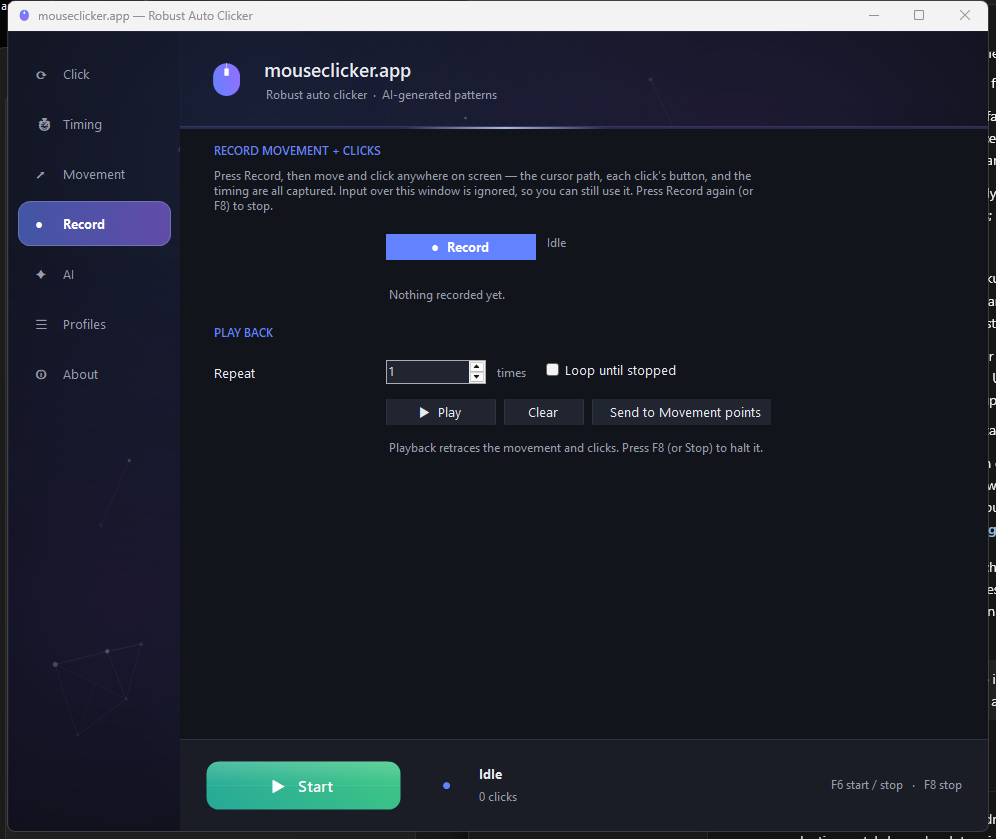
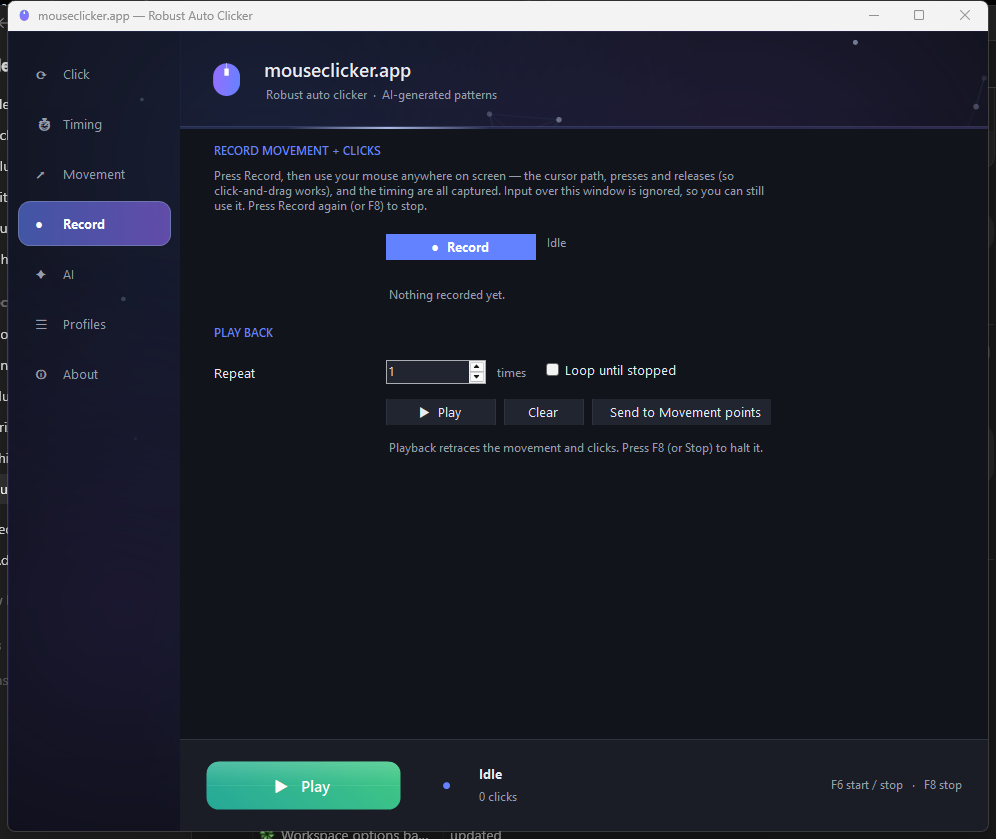
Record click-and-drag; context-aware Start button (v3.5)
Record button down/up (drag support):
- The recorder now captures button PRESS and RELEASE as separate steps
  (StepKind Down/Up) plus the movement between them, so click-and-drag is
  recorded faithfully — previously only a full "click" was stored, which
  couldn't represent a drag. Playback issues MouseDown/MouseUp at the
  recorded points, and always releases any still-held button at the end (or
  on Stop) so a recording that ends mid-drag can't leave a button stuck.
- "Send to Movement points" maps the press (Down) locations. UI counts
  presses as clicks. Now also captures WM_*BUTTONUP.

Context-aware footer Start button:
- The big Start button (and F6) now performs the current tab's action: on
  the Record tab it plays/stops the recording (button reads "Play"),
  everywhere else it runs/stops the configured clicker ("Start"). The
  button + tray tooltip reflect whichever is active; SwitchPage refreshes
  it. The tray menu's "Start/Stop clicking" stays engine-explicit.
- MacroPlayer.IsPlaying is now set synchronously (no thread-start race) so
  the button state is always consistent.

Verified: --audit 60/60 (incl. new down/up capture + drag), --rectest now
replays a down/move/up drag and releases cleanly, --selftest, live smoke
launch, and footer reads "Play" on Record / "Start" elsewhere via --shot.
Docs/site/screenshot updated.

diff --git a/docs/index.html b/docs/index.html
@@ -283,7 +283,7 @@
             </figure>
             <figure class="slide">
               <img src="img/screenshot-record.png" alt="mouseclicker.app movement and click recorder" />
-              <figcaption class="slide-cap"><span class="tag2">Record</span><b>Capture movement &amp; clicks, then replay</b></figcaption>
+              <figcaption class="slide-cap"><span class="tag2">Record</span><b>Capture movement, clicks &amp; drags</b></figcaption>
             </figure>
             <figure class="slide">
               <img src="img/screenshot-ai.png" alt="mouseclicker.app AI pattern generator" />
@@ -327,7 +327,7 @@
       <div class="card">
         <div class="ic">●</div>
         <h3>Record &amp; replay</h3>
-        <p>Hit Record and use your mouse anywhere — mouseclicker.app captures the cursor movement <b>and</b> every click (position, button, and timing), then retraces the whole sequence a set number of times or on a loop. Send the recorded clicks straight to the point-sequence engine.</p>
+        <p>Hit Record and use your mouse anywhere — mouseclicker.app captures the cursor movement, presses, and releases (so <b>click-and-drag</b> works), with full timing, then retraces the whole sequence a set number of times or on a loop.</p>
       </div>
       <div class="card">
         <div class="ic">⌨</div>

diff --git a/src/Macro.cs b/src/Macro.cs
@@ -9,12 +9,15 @@ namespace ClickForge
     public enum StepKind
     {
         Move = 0,
-        Click = 1
+        Down = 1,   // mouse button pressed
+        Up = 2      // mouse button released
     }
 
-    // One captured event: a cursor move, or a click. DelayMs is how long to wait
-    // before performing this step (reproducing the recorded timing). Button is
-    // only meaningful when Kind == Click.
+    // One captured event: a cursor move, a button press, or a button release.
+    // DelayMs is how long to wait before performing this step (reproducing the
+    // recorded timing). Down + moves + Up together reproduce a click-and-drag;
+    // a Down immediately followed by an Up is a plain click. Button is only
+    // meaningful for Down/Up.
     public class RecordedStep
     {
         public StepKind Kind { get; set; }
@@ -92,7 +95,10 @@ namespace ClickForge
                 if (msg == NativeMethods.WM_MOUSEMOVE
                     || msg == NativeMethods.WM_LBUTTONDOWN
                     || msg == NativeMethods.WM_RBUTTONDOWN
-                    || msg == NativeMethods.WM_MBUTTONDOWN)
+                    || msg == NativeMethods.WM_MBUTTONDOWN
+                    || msg == NativeMethods.WM_LBUTTONUP
+                    || msg == NativeMethods.WM_RBUTTONUP
+                    || msg == NativeMethods.WM_MBUTTONUP)
                 {
                     var data = (NativeMethods.MSLLHOOKSTRUCT)Marshal.PtrToStructure(
                         lParam, typeof(NativeMethods.MSLLHOOKSTRUCT));
@@ -125,9 +131,12 @@ namespace ClickForge
             MouseButton btn = MouseButton.Left;
             switch (msg)
             {
-                case NativeMethods.WM_LBUTTONDOWN: kind = StepKind.Click; btn = MouseButton.Left; break;
-                case NativeMethods.WM_RBUTTONDOWN: kind = StepKind.Click; btn = MouseButton.Right; break;
-                case NativeMethods.WM_MBUTTONDOWN: kind = StepKind.Click; btn = MouseButton.Middle; break;
+                case NativeMethods.WM_LBUTTONDOWN: kind = StepKind.Down; btn = MouseButton.Left; break;
+                case NativeMethods.WM_RBUTTONDOWN: kind = StepKind.Down; btn = MouseButton.Right; break;
+                case NativeMethods.WM_MBUTTONDOWN: kind = StepKind.Down; btn = MouseButton.Middle; break;
+                case NativeMethods.WM_LBUTTONUP: kind = StepKind.Up; btn = MouseButton.Left; break;
+                case NativeMethods.WM_RBUTTONUP: kind = StepKind.Up; btn = MouseButton.Right; break;
+                case NativeMethods.WM_MBUTTONUP: kind = StepKind.Up; btn = MouseButton.Middle; break;
                 case NativeMethods.WM_MOUSEMOVE: kind = StepKind.Move; break;
                 default: return null;
             }
@@ -156,7 +165,7 @@ namespace ClickForge
             _lastY = py;
             _haveLast = true;
             if (kind == StepKind.Move) { _moveCount++; _lastMoveTick = nowTick; }
-            else _clickCount++;
+            else if (kind == StepKind.Down) _clickCount++; // Up doesn't add a "click"
             return step;
         }
     }
@@ -167,8 +176,11 @@ namespace ClickForge
     {
         private Thread _thread;
         private volatile bool _stop;
+        private volatile bool _active;
 
-        public bool IsPlaying { get { return _thread != null && _thread.IsAlive; } }
+        // Set synchronously in Play() and cleared before Finished fires, so
+        // callers see a consistent state with no thread-start race.
+        public bool IsPlaying { get { return _active; } }
 
         // Both fire on the worker thread — marshal to the UI thread in handlers.
         public event Action<int> Progress;    // total clicks performed so far
@@ -176,12 +188,16 @@ namespace ClickForge
 
         public void Play(List<RecordedStep> steps, int repeatCount /* 0 = loop forever */)
         {
-            if (IsPlaying || steps == null || steps.Count == 0) return;
+            if (_active || steps == null || steps.Count == 0) return;
             RecordedStep[] plan = steps.ToArray();
             _stop = false;
+            _active = true;
             _thread = new Thread(delegate()
             {
                 int clicks = 0;
+                // Track which buttons we've pressed so a recording that ends
+                // mid-drag (or an early Stop) never leaves a button stuck down.
+                bool[] pressed = new bool[3];
                 try
                 {
                     int loops = 0;
@@ -193,18 +209,26 @@ namespace ClickForge
                             SleepInterruptible(s.DelayMs);
                             if (_stop) break;
                             InputSimulator.MoveTo(s.X, s.Y);
-                            if (s.Kind == StepKind.Click)
+                            if (s.Kind == StepKind.Down)
                             {
-                                InputSimulator.Click(s.Button, 15);
+                                InputSimulator.MouseDown(s.Button);
+                                MarkPressed(pressed, s.Button, true);
                                 clicks++;
                                 Action<int> p = Progress;
                                 if (p != null) p(clicks);
+                            }
+                            else if (s.Kind == StepKind.Up)
+                            {
+                                InputSimulator.MouseUp(s.Button);
+                                MarkPressed(pressed, s.Button, false);
                             }
                         }
                         loops++;
                     }
                 }
                 catch { }
+                ReleaseAll(pressed);
+                _active = false; // clear before Finished so handlers see a settled state
                 Action<string> f = Finished;
                 if (f != null) f(_stop ? "Playback stopped." : "Playback complete.");
             });
@@ -213,6 +237,24 @@ namespace ClickForge
         }
 
         public void Stop() { _stop = true; }
+
+        private static void MarkPressed(bool[] pressed, MouseButton b, bool down)
+        {
+            int i = (int)b;
+            if (i >= 0 && i < pressed.Length) pressed[i] = down;
+        }
+
+        private static void ReleaseAll(bool[] pressed)
+        {
+            for (int i = 0; i < pressed.Length; i++)
+            {
+                if (pressed[i])
+                {
+                    try { InputSimulator.MouseUp((MouseButton)i); }
+                    catch { }
+                }
+            }
+        }
 
         private void SleepInterruptible(int ms)
         {

diff --git a/src/MainForm.cs b/src/MainForm.cs
@@ -10,7 +10,7 @@ namespace ClickForge
     public class MainForm : Form
     {
         private const string AppName = "mouseclicker.app";
-        private const string AppVersion = "3.4";
+        private const string AppVersion = "3.5";
 
         private Profile _profile;
         private readonly ClickEngine _engine = new ClickEngine();
@@ -477,6 +477,8 @@ namespace ClickForge
                 _navActive = idx;
                 _navPillTarget = _navRects[idx].Y;
             }
+            // The footer Start button's action depends on the active tab.
+            if (_startButton != null) UpdateStartButton();
         }
 
         // ---- Pages -------------------------------------------------------
@@ -665,9 +667,9 @@ namespace ClickForge
             FlowLayoutPanel s = Ui.Stack();
             s.Controls.Add(Theme.SectionHeader("Record movement + clicks"));
             s.Controls.Add(Ui.Spacer(4));
-            Label rBlurb = Theme.Label("Press Record, then move and click anywhere on screen — the cursor path, "
-                + "each click's button, and the timing are all captured. Input over this window is ignored, "
-                + "so you can still use it. Press Record again (or F8) to stop.", true);
+            Label rBlurb = Theme.Label("Press Record, then use your mouse anywhere on screen — the cursor path, "
+                + "presses and releases (so click-and-drag works), and the timing are all captured. Input over "
+                + "this window is ignored, so you can still use it. Press Record again (or F8) to stop.", true);
             rBlurb.MaximumSize = new Size(Ui.ContentWidth, 0);
             s.Controls.Add(rBlurb);
             s.Controls.Add(Ui.Spacer(8));
@@ -728,7 +730,13 @@ namespace ClickForge
             };
             _player.Finished += delegate(string reason)
             {
-                UiInvoke(delegate { _playBtn.Text = "▶  Play"; _recordStatus.ForeColor = Theme.Muted; _recordStatus.Text = reason; });
+                UiInvoke(delegate
+                {
+                    _playBtn.Text = "▶  Play";
+                    _recordStatus.ForeColor = Theme.Muted;
+                    _recordStatus.Text = reason;
+                    UpdateStartButton(); // footer back to Play/Start for the tab
+                });
             };
             return s;
         }
@@ -788,10 +796,11 @@ namespace ClickForge
             if (_recorder.IsRecording) StopRecording();
             if (_engine.IsRunning) _engine.Stop();
             int repeat = _recordLoop.Checked ? 0 : (int)_recordRepeat.Value;
-            _playBtn.Text = "■  Stop";
             _recordStatus.ForeColor = Theme.Accent;
             _recordStatus.Text = "Playing…";
             _player.Play(_recorder.Steps, repeat);
+            _playBtn.Text = "■  Stop";
+            UpdateStartButton(); // footer reflects playback on the Record tab
         }
 
         private void ClearRecording()
@@ -817,7 +826,7 @@ namespace ClickForge
             SyncToProfile();
             _profile.Points.Clear();
             foreach (RecordedStep st in _recorder.Steps)
-                if (st.Kind == StepKind.Click)
+                if (st.Kind == StepKind.Down)
                     _profile.Points.Add(new ClickPoint(st.X, st.Y));
             _profile.PositionMode = PositionMode.PointSequence;
             LoadToControls();
@@ -1477,7 +1486,24 @@ namespace ClickForge
 
         // ---- Engine control ----------------------------------------------
 
+        // True when the Record tab is the active page.
+        private bool OnRecordTab()
+        {
+            return _navActive >= 0 && _navActive < NavNames.Length && NavNames[_navActive] == "Record";
+        }
+
+        // The footer Start button (and the F6 hotkey) act on whatever the
+        // current tab is set up to do: on the Record tab that's playing back the
+        // recording, everywhere else it's the configured clicker.
         private void ToggleRun()
+        {
+            if (OnRecordTab())
+                TogglePlayback();
+            else
+                ToggleEngine();
+        }
+
+        private void ToggleEngine()
         {
             if (_engine.IsRunning)
                 _engine.Stop();
@@ -1538,9 +1564,12 @@ namespace ClickForge
 
         private void UpdateStartButton()
         {
-            bool running = _engine.IsRunning;
-            _startButton.Text = running ? "■   Stop" : "▶   Start";
-            if (running)
+            // The footer button reflects the action of the current tab: play the
+            // recording on the Record tab, otherwise run the clicker.
+            bool onRec = OnRecordTab();
+            bool active = onRec ? _player.IsPlaying : _engine.IsRunning;
+            _startButton.Text = active ? "■   Stop" : (onRec ? "▶   Play" : "▶   Start");
+            if (active)
             {
                 _startButton.ColorA = Color.FromArgb(232, 96, 104);
                 _startButton.ColorB = Color.FromArgb(205, 62, 96);
@@ -1553,9 +1582,10 @@ namespace ClickForge
                 _startButton.Pulsing = false;
             }
             _startButton.Invalidate();
-            if (_pulse != null) _pulse.Active = running;
-            // Hovering the tray icon should tell you whether it's clicking.
-            if (_tray != null) _tray.Text = running ? AppName + " — running" : AppName;
+            if (_pulse != null) _pulse.Active = active;
+            // Hovering the tray icon should tell you whether it's active.
+            if (_tray != null) _tray.Text = (_engine.IsRunning || _player.IsPlaying)
+                ? AppName + " — running" : AppName;
         }
 
         private void ResetIdleStatus()
@@ -1851,7 +1881,7 @@ namespace ClickForge
             menu.Items.Add(open);
             menu.Items.Add(new ToolStripSeparator());
             _trayToggleItem = new ToolStripMenuItem("Start clicking", null,
-                delegate { ToggleRun(); });
+                delegate { ToggleEngine(); });
             menu.Items.Add(_trayToggleItem);
             menu.Items.Add(new ToolStripSeparator());
             menu.Items.Add(new ToolStripMenuItem("Exit", null,

diff --git a/src/Program.cs b/src/Program.cs
@@ -221,10 +221,15 @@ namespace ClickForge
                 var vs = ScreenInfo.Virtual();
                 int cx = vs.Left + vs.Width / 2;
                 int cy = vs.Top + vs.Height / 2;
+                // A click at one point, then a click-and-drag to another: down,
+                // move, up — landing (and releasing) on the last point.
                 var steps = new System.Collections.Generic.List<RecordedStep>();
                 steps.Add(new RecordedStep { Kind = StepKind.Move, X = cx, Y = cy, DelayMs = 0 });
-                steps.Add(new RecordedStep { Kind = StepKind.Click, X = cx - 120, Y = cy, Button = MouseButton.Left, DelayMs = 20 });
-                steps.Add(new RecordedStep { Kind = StepKind.Click, X = cx + 120, Y = cy + 60, Button = MouseButton.Left, DelayMs = 40 });
+                steps.Add(new RecordedStep { Kind = StepKind.Down, X = cx - 120, Y = cy, Button = MouseButton.Left, DelayMs = 20 });
+                steps.Add(new RecordedStep { Kind = StepKind.Up, X = cx - 120, Y = cy, Button = MouseButton.Left, DelayMs = 20 });
+                steps.Add(new RecordedStep { Kind = StepKind.Down, X = cx, Y = cy + 30, Button = MouseButton.Left, DelayMs = 20 });
+                steps.Add(new RecordedStep { Kind = StepKind.Move, X = cx + 60, Y = cy + 45, DelayMs = 20 });
+                steps.Add(new RecordedStep { Kind = StepKind.Up, X = cx + 120, Y = cy + 60, Button = MouseButton.Left, DelayMs = 40 });
 
                 NativeMethods.POINT startPt = InputSimulator.GetCursor();
                 var player = new MacroPlayer();
@@ -390,9 +395,10 @@ namespace ClickForge
                     sugg == "Click like a human" && sugg.Length <= 28);
                 check("SuggestPresetName falls back on empty", MainForm.SuggestPresetName("  ") == "AI pattern");
 
-                // ---- MacroRecorder.Capture (movement + clicks) -------------
+                // ---- MacroRecorder.Capture (movement + down/up) ------------
                 int WM_MOVE = NativeMethods.WM_MOUSEMOVE;
                 int WM_L = NativeMethods.WM_LBUTTONDOWN;
+                int WM_LUP = NativeMethods.WM_LBUTTONUP;
                 int WM_R = NativeMethods.WM_RBUTTONDOWN;
 
                 var rec = new MacroRecorder();
@@ -401,13 +407,18 @@ namespace ClickForge
                 check("Capture ignores events over the app window",
                     rec.Capture(WM_L, 100, 100, false, true, 1000) == null && rec.Count == 0);
                 RecordedStep c1 = rec.Capture(WM_L, 300, 400, false, false, 1000);
-                check("Capture records a left click (first delay = 0)",
-                    c1 != null && c1.Kind == StepKind.Click && c1.Button == MouseButton.Left
+                check("Capture records a button DOWN (first delay = 0)",
+                    c1 != null && c1.Kind == StepKind.Down && c1.Button == MouseButton.Left
                     && c1.X == 300 && c1.Y == 400 && c1.DelayMs == 0);
+                RecordedStep cu = rec.Capture(WM_LUP, 340, 430, false, false, 1050);
+                check("Capture records a button UP (drag support)",
+                    cu != null && cu.Kind == StepKind.Up && cu.Button == MouseButton.Left
+                    && cu.X == 340 && cu.Y == 430 && cu.DelayMs == 50);
                 RecordedStep c2 = rec.Capture(WM_R, 310, 410, false, false, 1250);
-                check("Capture records a right click with the timing delta",
-                    c2 != null && c2.Button == MouseButton.Right && c2.DelayMs == 250);
-                check("Capture tallies clicks", rec.ClickCount == 2 && rec.MoveCount == 0);
+                check("Capture records a right press with the timing delta",
+                    c2 != null && c2.Kind == StepKind.Down && c2.Button == MouseButton.Right && c2.DelayMs == 200);
+                check("Capture tallies presses (down), not releases",
+                    rec.ClickCount == 2 && rec.MoveCount == 0 && rec.Count == 3);
 
                 var mv = new MacroRecorder();
                 RecordedStep m1 = mv.Capture(WM_MOVE, 0, 0, false, false, 5000);

diff --git a/src/AssemblyInfo.cs b/src/AssemblyInfo.cs
@@ -12,6 +12,6 @@ using System.Runtime.InteropServices;
 [assembly: AssemblyCopyright("Copyright (c) 2021-2026 stevologic  -  MIT License")]
 [assembly: AssemblyTrademark("")]
 [assembly: ComVisible(false)]
-[assembly: AssemblyVersion("3.4.0.0")]
-[assembly: AssemblyFileVersion("3.4.0.0")]
-[assembly: AssemblyInformationalVersion("3.4.0 - https://mouseclicker.app")]
+[assembly: AssemblyVersion("3.5.0.0")]
+[assembly: AssemblyFileVersion("3.5.0.0")]
+[assembly: AssemblyInformationalVersion("3.5.0 - https://mouseclicker.app")]

diff --git a/src/NativeMethods.cs b/src/NativeMethods.cs
@@ -126,8 +126,11 @@ namespace ClickForge
         public const int HC_ACTION = 0;
         public const int WM_MOUSEMOVE = 0x0200;
         public const int WM_LBUTTONDOWN = 0x0201;
+        public const int WM_LBUTTONUP = 0x0202;
         public const int WM_RBUTTONDOWN = 0x0204;
+        public const int WM_RBUTTONUP = 0x0205;
         public const int WM_MBUTTONDOWN = 0x0207;
+        public const int WM_MBUTTONUP = 0x0208;
         public const uint LLMHF_INJECTED = 0x00000001;
 
         [StructLayout(LayoutKind.Sequential)]

diff --git a/README.md b/README.md
@@ -15,7 +15,7 @@ Tons of options for **how** to click, **where** to move the cursor, and **when**
 - **Truly portable.** A single self-contained `.exe`. It runs on the .NET Framework that already ships with Windows — no installer, no admin rights, no 60 MB runtime bundle.
 - **Extremely configurable.** Every click button and type, randomized hold/interval timing, four positioning modes, and three cursor-movement styles including humanized curves.
 - **AI patterns, your choice of model.** Describe what you want in plain English and let **Claude, OpenAI, Gemini, Grok, or a lightweight local model** build the whole pattern. The local option runs fully offline via [Ollama](https://ollama.com) — no key, no cloud. Works with a built-in heuristic generator too.
-- **Record & replay.** Hit Record and use your mouse anywhere on screen — mouseclicker.app captures the **cursor movement and every click** (position, button, and timing), then replays the whole sequence a set number of times or on a loop.
+- **Record & replay.** Hit Record and use your mouse anywhere on screen — mouseclicker.app captures the **cursor movement, presses, and releases** (so **click-and-drag** works), with full timing, then replays the whole sequence a set number of times or on a loop.
 - **Live activity HUD.** While a run is active, a sleek floating popup shows a pulsing indicator and a live click counter — always on top and click-through, so it never gets in the way.
 - **A living interface.** A hand-built animated UI — a cursor-reactive particle constellation, an aurora backdrop, glassmorphism, and a glowing Start button — rendered entirely in GDI+. It idles to near-zero CPU when the window isn't in the foreground.
 - **Tiny & fast.** ~100 KB, native input via the Win32 `SendInput` API, precise sub-millisecond timing.
@@ -41,13 +41,15 @@ Tons of options for **how** to click, **where** to move the cursor, and **when**
 - Optional target jitter and return-to-origin
 
 ### Record & replay
-- **Record** your real mouse input system-wide — the **cursor movement path** (sampled) and **every click** (position, button, and the timing between events)
+- **Record** your real mouse input system-wide — the **cursor movement path** (sampled) plus every **press and release** with its button and timing
+- **Click-and-drag is supported** — presses and releases are captured separately, so playback reproduces drags, not just clicks
 - **Play back** the sequence a fixed number of times or on a **loop**, retracing the movement and reproducing the recorded pauses
-- Movement and clicks over the app's own window are ignored while recording, so the UI stays usable
-- **Send to Movement points** to hand the recorded clicks to the point-sequence engine
+- Input over the app's own window is ignored while recording, so the UI stays usable
+- **Send to Movement points** to hand the recorded press locations to the point-sequence engine
 - `F8` (or Stop) halts playback instantly
 
 ### Control
+- The big **Start** button (and `F6`) runs whatever the current tab is set up for — the configured clicker, or **playback of your recording** on the Record tab
 - System-wide **global hotkeys** (default `F6` = start/stop, `F8` = emergency stop) that work even in the background
 - Save and load named **profiles**
 - **Minimize to the system tray** to keep clicking in the background